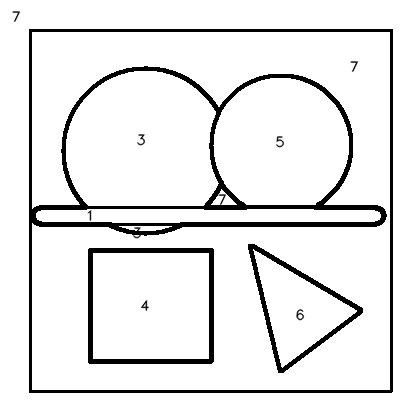
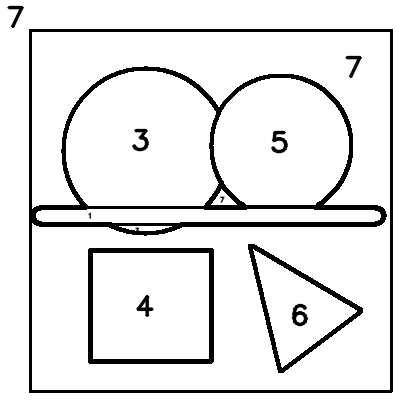
fix : segmentation font size rollback

diff --git a/src/coloringbook_utils.py b/src/coloringbook_utils.py
@@ -447,7 +447,8 @@ def watershed_segmentation(image):
 def label_regions(
     line_image,
     regions,
-    font_scale=0.45,
+    font_scale=0.9,
+    min_font_scale=0.25,
     skip_background=False,
     region_map=None,
     avoid_overlap=False,
@@ -478,8 +479,14 @@ def label_regions(
         else:
             cx, cy = region["centroid"]
 
-        scale = font_scale
-        thickness = 1
+        scale = _fit_label_font_scale(
+            text,
+            font,
+            region["bbox"],
+            max_scale=font_scale,
+            min_scale=min_font_scale,
+        )
+        thickness = max(1, int(round(scale * 2)))
         (tw, th), base = cv2.getTextSize(text, font, scale, thickness)
 
         x = int(np.clip(cx - tw / 2, x0 + 1, max(x0 + 1, x0 + w - tw - 1)))
@@ -500,6 +507,29 @@ def label_regions(
         occupied.append(box)
         cv2.putText(canvas, text, (x, y), font, scale, (0, 0, 0), thickness, cv2.LINE_AA)
     return canvas
+
+
+def _fit_label_font_scale(text, font, bbox, max_scale=0.9, min_scale=0.25, padding=4):
+    """Choose a text scale that fits inside the region bounding box."""
+    _, _, w, h = bbox
+    available_w = max(1, w - padding * 2)
+    available_h = max(1, h - padding * 2)
+    scale = max_scale
+
+    for _ in range(12):
+        thickness = max(1, int(round(scale * 2)))
+        (tw, th), base = cv2.getTextSize(text, font, scale, thickness)
+        text_h = th + base
+        if tw <= available_w and text_h <= available_h:
+            return max(min_scale, scale)
+
+        width_ratio = available_w / max(1, tw)
+        height_ratio = available_h / max(1, text_h)
+        scale *= min(width_ratio, height_ratio) * 0.95
+        if scale <= min_scale:
+            return min_scale
+
+    return max(min_scale, min(scale, max_scale))
 
 
 def _best_label_point(region_map, region_id, bbox):

diff --git a/scripts/create_notebooks.py b/scripts/create_notebooks.py
@@ -317,7 +317,7 @@ region_preview = color_region_preview(region_map)
 
 # 각 닫힌 영역 내부에서 가장 넓은 지점에 색상 번호를 넣습니다.
 # 예시 이미지처럼 같은 색상 번호가 여러 영역에 반복해서 표시됩니다.
-numbered = label_regions(line_image, regions, font_scale=0.45, region_map=region_map)
+numbered = label_regions(line_image, regions, font_scale=0.9, region_map=region_map)
 
 # Contour와 Watershed는 비교용 결과로 함께 확인합니다.
 contour_preview, contours = contour_regions(line_image, MIN_AREA)
@@ -479,7 +479,7 @@ regions = assign_region_color_numbers(
 )
 numbered_regions = colorable_regions(regions)
 region_preview = color_region_preview(region_map)
-numbered_coloringbook = label_regions(canny_line, regions, font_scale=0.45, region_map=region_map)
+numbered_coloringbook = label_regions(canny_line, regions, font_scale=0.9, region_map=region_map)
 
 # 4. 저장: 단계별 결과를 outputs 폴더에 저장합니다.
 save_image_rgb("outputs/04_original.png", image)